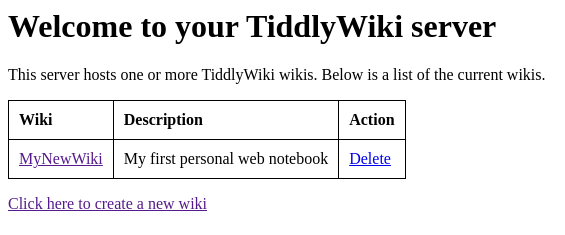
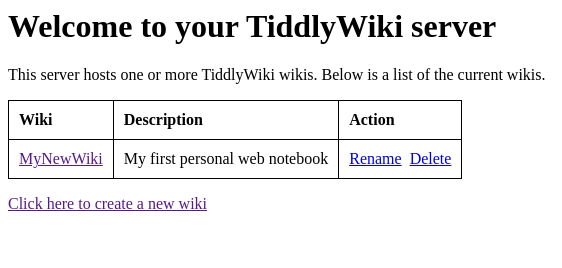
Updated readme

diff --git a/README.md b/README.md
@@ -9,7 +9,8 @@ The name Tiddlyverse is a play on universe or multiverse, emphasizing the capabi
   - Each wiki is given a unique path off of the server root. For example, the wiki "~MyWiki" will be at `http://<host>:<port>/MyWiki`. 
 - A landing page at the server root listing all current wikis
   - A link to each wiki
-  - A link to delete a wiki. The delete action is confirmed and the wiki is moved to the "trash" folder on the server. At present, there is no automatic deletion by the server, so you would have to delete it manually. Eventually, the idea is to hold it for some number of days and then purge. 
+  - A link to rename a wiki. The rename action prompts you for a new name. The new name will affect the path in the URL and the folder name on the server. It has no impact on the title used inside the wiki.
+  - A link to delete a wiki. The delete action is confirmed and the wiki is moved to the "trash" folder on the server. At present, there is no automatic deletion by the server, so you would have to delete it manually. 
 - A page for creating a new wiki from a template
   - A template is a TiddlyWiki HTML file with any plugins or content tiddlers that you want to be part of the foundation for a wiki. All subsequent tiddlers will be saved individually in the wiki folder on the server.
 
@@ -60,7 +61,7 @@ You may wish to add a tiddler called **$:/SiteDescription** with a short descrip
 
 ![Home End](/assets/images/home_end.png)
 
-In the listing of wikis, you'll notice a Delete link. You may delete a wiki by clicking that link. It will ask you to confirm and upon confirmation, it will move the wiki to the trash directory. This gives you the chance to change your mind or salvage some tiddlers you may have forgotten you needed. You can permanently delete it later manually on the server. Eventually, I'll add an option to delete after some configurable number of days. 
+In the listing of wikis, you'll notice a Rename and a Delete link. You may rename a wiki, which will change the path in the URL and the folder name on the server. You may also delete a wiki by clicking that link. It will ask you to confirm and upon confirmation, it will move the wiki to the trash directory. This gives you the chance to change your mind or salvage some tiddlers you may have forgotten you needed. You can permanently delete it later manually on the server.  
 
 ## Templates
 
